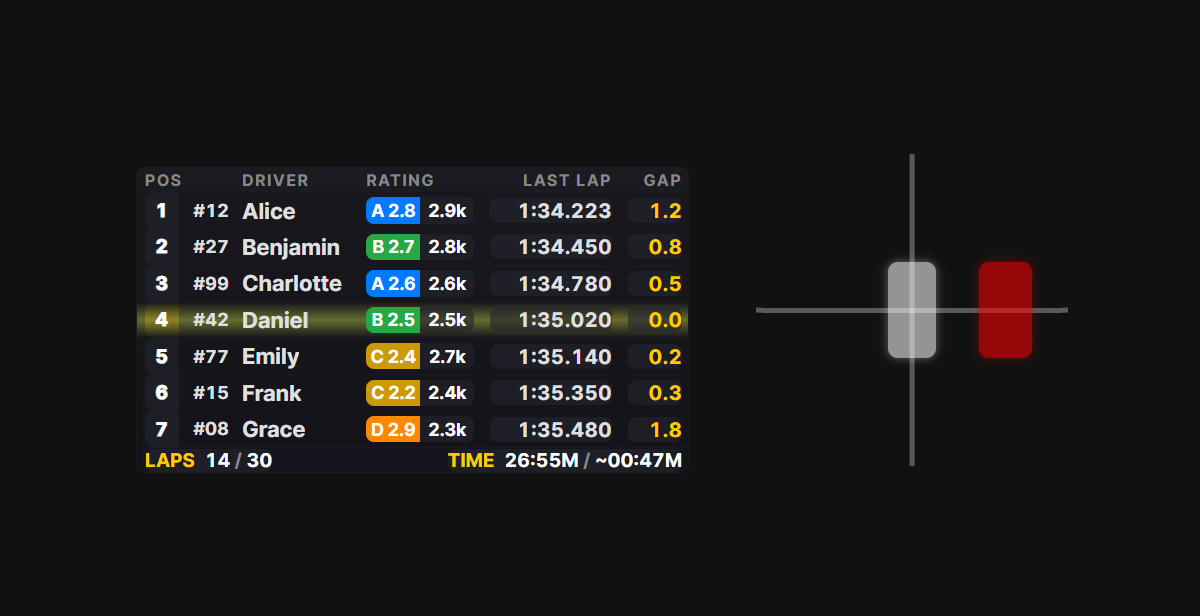
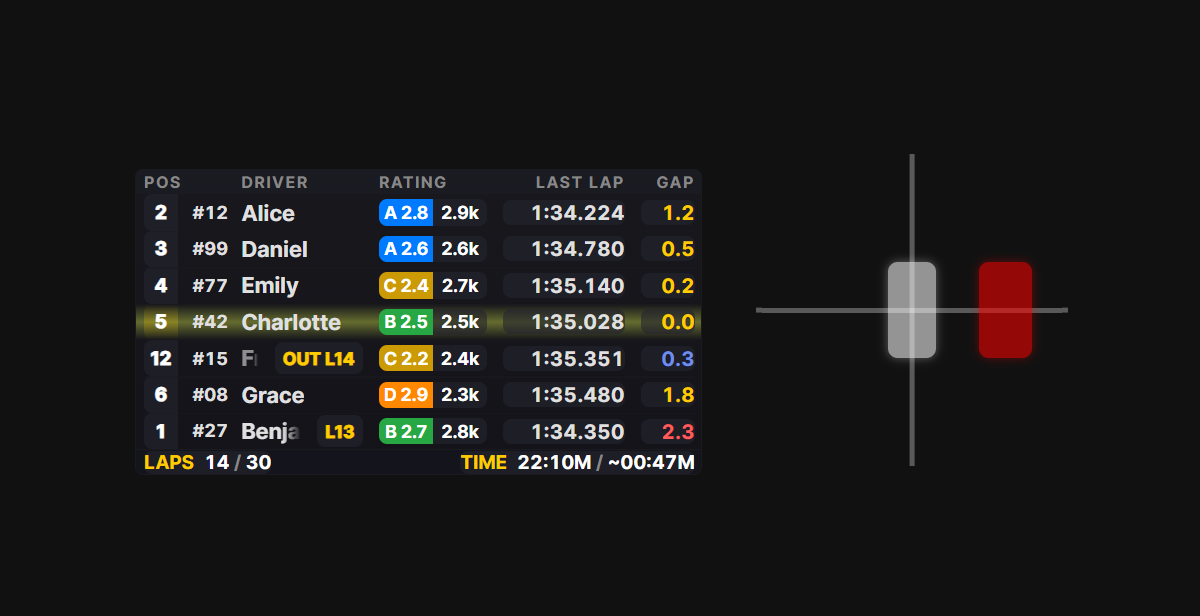
test: update tests for irsdk and leaderboard test: update conftest.py static: update images. docs: update README.md with latest changes

Changed region(s): [[0.1233, 0.2776, 0.5858, 0.7711], [0.1233, 0.2776, 0.1542, 0.3084]]

diff --git a/tests/backend/test_leaderboard.py b/tests/backend/test_leaderboard.py
@@ -1,6 +1,5 @@
 import pytest
 from unittest.mock import MagicMock
-import time
 
 from backend.services.leaderboard.service import (
     Leaderboard,
@@ -62,7 +61,15 @@ def test_builder_returns_none_for_pace_car(mock_irsdk_leaderboard):
     builder = CarDataBuilder(mock_irsdk_leaderboard)
     drivers = [{"UserName": "PACE CAR"}]
     result = builder.build(
-        0, drivers, [1], [1], [80.0], [5], [0.3], multiclass=False
+        0,
+        drivers,
+        [1],
+        [1],
+        [80.0],
+        [5],
+        [0.3],
+        multiclass=False,
+        is_pitroad=[False],
     )
     assert result is None
 
@@ -75,29 +82,32 @@ def test_get_starting_position_from_qualify_stats(mock_irsdk_leaderboard):
 
 def test_get_starting_position_missing_qualify(mock_irsdk_leaderboard):
     builder = CarDataBuilder(mock_irsdk_leaderboard)
-    pos = builder._get_starting_position(car_idx=999, field="Position", offset=0)
+    pos = builder._get_starting_position(
+        car_idx=999, field="Position", offset=0
+    )
     assert pos == 0
 
 
 def test_starting_position_falls_back_to_race(mock_irsdk_leaderboard):
     builder = CarDataBuilder(mock_irsdk_leaderboard)
-
-    qualify_results = (
-        mock_irsdk_leaderboard.get_value("SessionInfo")["Sessions"][0]["ResultsPositions"]
-    )
-    assert not any(r["CarIdx"] == 2 for r in qualify_results)
-
-    positions = mock_irsdk_leaderboard.get_value("CarIdxPosition")
     drivers = mock_irsdk_leaderboard.get_value("DriverInfo")["Drivers"]
+    positions = mock_irsdk_leaderboard.get_value("CarIdxPosition")
+    class_positions = [0, 1, 2]
+    last_lap_times = [80.0, 81.0, 82.0]
+    laps_started = [5, 4, 3]
+    lap_dist_pct = [0.1, 0.2, 0.3]
+    is_pitroad = [False, False, False]
+
     result = builder.build(
         idx=2,
         drivers=drivers,
         positions=positions,
-        class_positions=[0, 1, 2],
-        last_lap_times=[80.0, 81.0, 82.0],
-        laps_started=[5, 4, 3],
-        lap_dist_pct=[0.1, 0.2, 0.3],
+        class_positions=class_positions,
+        last_lap_times=last_lap_times,
+        laps_started=laps_started,
+        lap_dist_pct=lap_dist_pct,
         multiclass=False,
+        is_pitroad=is_pitroad,
     )
     assert result["pos"] == 3
 
@@ -105,16 +115,23 @@ def test_starting_position_falls_back_to_race(mock_irsdk_leaderboard):
 def test_builder_converts_minus_one_position_to_none(mock_irsdk_leaderboard):
     builder = CarDataBuilder(mock_irsdk_leaderboard)
     drivers = mock_irsdk_leaderboard.get_value("DriverInfo")["Drivers"]
+    positions = [1, -1, 3]
+    class_positions = [0, -1, 2]
+    last_lap_times = [80.0, 81.0, 82.0]
+    laps_started = [5, 4, 3]
+    lap_dist_pct = [0.1, 0.2, 0.3]
+    is_pitroad = [False, False, False]
 
     result = builder.build(
-        1,
-        drivers,
-        positions=[1, -1, 3],
-        class_positions=[0, -1, 2],
-        last_lap_times=[80, 81, 82],
-        laps_started=[5, 5, 5],
-        lap_dist_pct=[0.3, 0.2, 0.2],
+        idx=1,
+        drivers=drivers,
+        positions=positions,
+        class_positions=class_positions,
+        last_lap_times=last_lap_times,
+        laps_started=laps_started,
+        lap_dist_pct=lap_dist_pct,
         multiclass=False,
+        is_pitroad=is_pitroad,
     )
     assert result["pos"] is None
 
@@ -125,8 +142,13 @@ def test_builder_negative_laps_converted_to_zero(mock_irsdk_leaderboard):
     result = builder.build(
         0,
         drivers,
-        [1], [0], [80], [-999], [0.5],
-        multiclass=False
+        [1],
+        [0],
+        [80],
+        [-999],
+        [0.5],
+        multiclass=False,
+        is_pitroad=[False],
     )
     assert result["laps_started"] == 0
 
@@ -137,8 +159,13 @@ def test_builder_lap_dist_pct_negative_becomes_none(mock_irsdk_leaderboard):
     result = builder.build(
         0,
         drivers,
-        [1], [0], [80], [1], [-0.5],
-        multiclass=False
+        [1],
+        [0],
+        [80],
+        [1],
+        [-0.5],
+        multiclass=False,
+        is_pitroad=[False],
     )
     assert result["lap_dist_pct"] is None
 
@@ -155,7 +182,15 @@ def test_builder_returns_valid_data(mock_irsdk_leaderboard):
         }
     ]
     result = builder.build(
-        0, drivers, [1], [1], [80.0], [5], [0.3], multiclass=False
+        0,
+        drivers,
+        [1],
+        [1],
+        [80.0],
+        [5],
+        [0.3],
+        multiclass=False,
+        is_pitroad=[False],
     )
     assert result["pos"] == 1
     assert result["car_idx"] == 0
@@ -172,26 +207,35 @@ def test_builder_returns_valid_data(mock_irsdk_leaderboard):
 # --- Leaderboard tests ---
 
 
-def test_is_lap_race_variants(mock_irsdk_leaderboard):
+def test_is_lap_race_various_inputs(mock_irsdk_leaderboard):
     leaderboard = Leaderboard(mock_irsdk_leaderboard)
     assert not leaderboard._is_lap_race(None)
-    assert leaderboard._is_lap_race("Unlimited") is True
-    assert leaderboard._is_lap_race(LAP_RACE_API_PLACEHOLDER) is True
-    assert leaderboard._is_lap_race("100 sec") is False
-    assert leaderboard._is_lap_race(5000.0) is False
+    assert leaderboard._is_lap_race("Unlimited")
+    assert leaderboard._is_lap_race(LAP_RACE_API_PLACEHOLDER)
+    assert not leaderboard._is_lap_race("120 sec")
+    assert not leaderboard._is_lap_race(1000.0)
+    assert leaderboard._is_lap_race(LAP_RACE_API_PLACEHOLDER + 1)
 
 
-def test_resolve_session_time_formats(mock_irsdk_leaderboard):
+def test_resolve_session_time_formats_and_approx(mock_irsdk_leaderboard):
     leaderboard = Leaderboard(mock_irsdk_leaderboard)
-    session = mock_irsdk_leaderboard.get_value("SessionInfo")["Sessions"][1]
-    player_lap_time = 79.8
+    current_session = {"SessionType": "RACE", "SessionLaps": 10}
+    player_lap_time = 80.0
 
-    result = leaderboard._resolve_session_time(session, player_lap_time, "100 sec", format=False)
-    assert result == 100.0
+    result_unformatted = leaderboard._resolve_session_time(
+        current_session,
+        player_lap_time,
+        LAP_RACE_API_PLACEHOLDER,
+        format=False,
+    )
+    assert isinstance(result_unformatted, float)
 
-    formatted = leaderboard._resolve_session_time(session, player_lap_time, "100 sec", format=True)
-    assert isinstance(formatted, str)
-    assert formatted.endswith("m")
+    result_formatted = leaderboard._resolve_session_time(
+        current_session, player_lap_time, LAP_RACE_API_PLACEHOLDER, format=True
+    )
+    assert isinstance(result_formatted, str)
+    assert result_formatted.startswith("~")
+    assert result_formatted.endswith("m")
 
 
 def test_leaderboard_snapshot_structure(mock_irsdk_leaderboard):
@@ -214,7 +258,9 @@ def test_leaderboard_snapshot_multiclass(mock_irsdk_leaderboard_multiclass):
 
 def test_leaderboard_no_drivers_returns_error():
     irsdk = MagicMock()
-    irsdk.get_value.side_effect = lambda key: {"DriverInfo": {"Drivers": []}}.get(key)
+    irsdk.get_value.side_effect = lambda key: {
+        "DriverInfo": {"Drivers": []}
+    }.get(key)
     leaderboard = Leaderboard(irsdk)
     result = leaderboard.get_leaderboard_snapshot()
     assert result == {"error": "No driver/player data"}
@@ -239,3 +285,38 @@ def test_get_session_info_returns_expected(mock_irsdk_leaderboard):
     assert data["session_laps"] == "10"
     assert data["session_time"] == 100.0
     assert data["player_lap_time"] == 79.8
+
+
+def test_get_player_lap_time_returns_fastest_or_est(mock_irsdk_leaderboard):
+    leaderboard = Leaderboard(mock_irsdk_leaderboard)
+    sessions = [
+        {"ResultsFastestLap": [{"CarIdx": 0, "FastestTime": 78.5}]},
+        {"ResultsFastestLap": [{"CarIdx": 1, "FastestTime": 81.0}]},
+    ]
+    assert leaderboard._get_player_lap_time(0, sessions) == 78.5
+    assert leaderboard._get_player_lap_time(1, sessions) == 81.0
+    assert (
+        leaderboard._get_player_lap_time(2, sessions)
+        == mock_irsdk_leaderboard.get_value("DriverInfo")["Drivers"][2][
+            "CarClassEstLapTime"
+        ]
+    )
+
+
+def test_get_last_pit_lap_behavior(mock_irsdk_leaderboard):
+    builder = CarDataBuilder(mock_irsdk_leaderboard)
+    laps_started = [5, 6]
+    is_pitroad = [True, False]
+
+    result_in = builder._get_last_pit_lap(0, laps_started, is_pitroad)
+    assert result_in == "L5 IN"
+
+    builder._last_pit_laps[1] = 6
+    result_out_first = builder._get_last_pit_lap(
+        1, laps_started, [False, False]
+    )
+    assert result_out_first.startswith("L6 OUT")
+
+    builder._pit_exit_times[1] -= 6
+    result_after = builder._get_last_pit_lap(1, laps_started, [False, False])
+    assert result_after == "L6"

diff --git a/tests/backend/conftest.py b/tests/backend/conftest.py
@@ -48,7 +48,6 @@ def mock_service(irsdk_mock_factory):
 def parser(mock_service):
     return IRSDKParser(mock_service)
 
-
 @pytest.fixture
 def mock_irsdk_leaderboard(irsdk_mock_factory):
     values = {
@@ -57,6 +56,7 @@ def mock_irsdk_leaderboard(irsdk_mock_factory):
         "CarIdxLap": [5, 5, 4],
         "CarIdxLastLapTime": [80.0, 81.5, 82.2],
         "CarIdxLapDistPct": [0.6, 0.3, 0.9],
+        "CarIdxOnPitRoad": [False, False, False],
         "PlayerCarIdx": 0,
         "SessionTime": 100.0,
         "SessionTimeTotal": 100.0,
@@ -124,8 +124,8 @@ def mock_irsdk_leaderboard(irsdk_mock_factory):
             ],
         },
     }
-
     return irsdk_mock_factory(values)
+
 
 
 @pytest.fixture
@@ -136,6 +136,7 @@ def mock_irsdk_leaderboard_multiclass(irsdk_mock_factory):
     ]
     values = {
         "DriverInfo": {"Drivers": drivers},
+        "CarIdxOnPitRoad": [False, False],
         "PlayerCarIdx": 0,
         "CarIdxPosition": [1, 2],
         "CarIdxClassPosition": [0, 0],

diff --git a/tests/backend/test_irsdk.py b/tests/backend/test_irsdk.py
@@ -30,6 +30,21 @@ def parser(mock_service):
 # --- Data tests ---
 
 
+def test_ensure_connected_starts_when_not_started(monkeypatch):
+    service = IRSDKService()
+    mock_ir = MagicMock()
+    mock_ir.is_connected = True
+    mock_ir.is_initialized = True
+    service.ir = mock_ir
+    service.started = False
+
+    connected, msg = service._ensure_connected()
+    assert connected is True
+    assert msg == ""
+    assert service.started is True
+    mock_ir.startup.assert_called_once()
+
+
 def test_is_connected_true(mock_service):
     assert mock_service.is_connected() is True
 

diff --git a/README.md b/README.md
@@ -3,7 +3,7 @@
 **iRacing Overlays** is a lightweight desktop application designed to ***display live iRacing telemetry***. Powered by ***FastAPI*** & ***Electron***.
 
 ![coverage](https://img.shields.io/badge/Version-v1.0.0_dev-blue)
-![coverage](https://img.shields.io/badge/Coverage-96%25-green)
+![coverage](https://img.shields.io/badge/Coverage-97%25-green)
 ![version](https://img.shields.io/badge/CodeClimate-А-cyan)
 ![version](https://img.shields.io/badge/Python-3.12.0-blue)
 ![version](https://img.shields.io/badge/Node.js-18+-blue)
